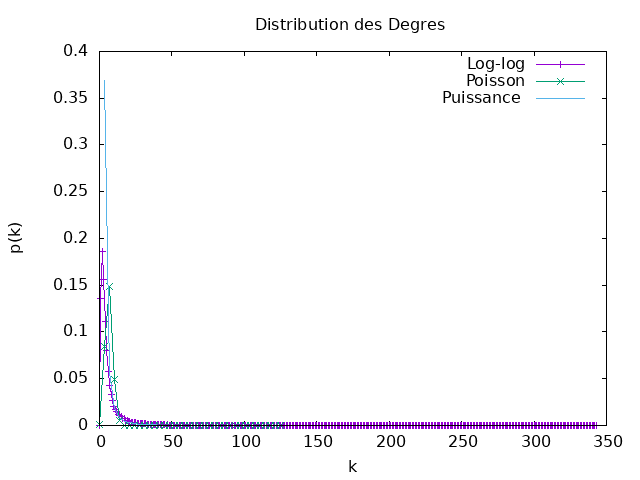
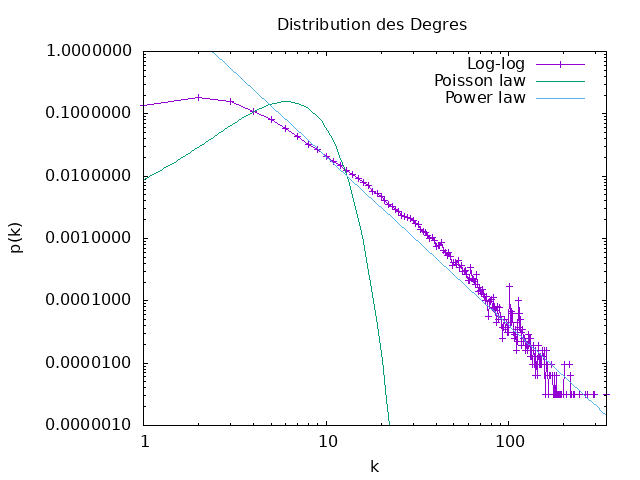
mesures_fin

diff --git a/src/main/java/Mesure/GraphClass.java b/src/main/java/Mesure/GraphClass.java
@@ -61,6 +61,28 @@ public class GraphClass {
 
     }
 
+    public static void distributionPoissonDegresToFile(Graph graph){
+
+        String filename = "Data/Mesures/"+graph.getId()+"_PoissonDeg.dat";
+
+        try (BufferedWriter writer = new BufferedWriter(new FileWriter(filename))) {
+            // Écrire les données
+            int[] data = Toolkit.degreeDistribution(graph);
+            int N = graph.getNodeCount();
+
+            for (int k = 0; k < data.length; k++) {
+                writer.write(k + "  " + (double)data[k]/(double)N + "\n");
+                k++;
+            }
+
+
+            // System.out.println("Data has been saved to " + filename);
+        } catch (IOException e) {
+            e.printStackTrace();
+            System.err.println("❌ Error saving data to " + filename);
+        }
+    }
+
     // * */ generer un fichier plt pour une simulation
     protected static void genererFichierPLT(String filepath, String fileSource, String graphName, String typeGraph) {
         try (BufferedWriter writer = new BufferedWriter(new FileWriter("Plot/"+filepath))) {
@@ -173,7 +195,6 @@ public class GraphClass {
 
         return distribution;
     }
-
 
 
 

diff --git a/src/main/java/Mesure/GivenGraph.java b/src/main/java/Mesure/GivenGraph.java
@@ -103,6 +103,7 @@ public class GivenGraph extends GraphClass {
 
 
 
+        distributionPoissonDegresToFile( graph);
 
 
 

diff --git a/README.md b/README.md
@@ -24,7 +24,12 @@ Le seuil critique pour qu'un réseau aléatoire devienne connexe est atteint lor
 
 Le tracé en échelle log-log de la distribution des degrés montre une courbe plutôt qu'une ligne droite.
 ![Distribution des degrés](GraphsImages/Mesures/Graph1_Mesures.png)
-Il ne s'agit pas d'une distribution de poisson ni de puissance.
+
+La distribution de nos degrés ne s'agit pas d'une distribution de poisson ni de puissance.
+
+Coefficients : 
+lc ≈ 2.34241 | 
+γ ≈ 2.70539
 
 ## Question 5
 
@@ -99,10 +104,10 @@ Les mesures de votre réseau collaboratif, du réseau aléatoire et du réseau B
 4. **Coefficient de Clustering ( C ) :**
     - Le réseau collaboratif a un coefficient de regroupement moyen significatif ( C  = 0.632 ), indiquant une certaine structure de regroupement. Le réseau aléatoire a un coefficient de regroupement négligeable, ce qui est attendu dans un réseau aléatoire. Le réseau Barabasi-Albert a également un faible coefficient de regroupement.
 
-5**Distance moyenne ( d ) :**
+5. **Distance moyenne ( d ) :**
     - La distance moyenne est cohérente avec les attentes théoriques. Le réseau aléatoire a une distance moyenne légèrement inférieure à celle du réseau collaboratif, ce qui est typique des réseaux aléatoires. Le réseau Barabasi-Albert a une distance moyenne légèrement plus élevée.
 
-6**Connexité :**
+6. **Connexité :**
     - Le réseau collaboratif et le réseau Barabasi-Albert sont connexes, tandis que le réseau aléatoire ne l'est pas. Cela correspond aux attentes théoriques.
 
 Globalement, les mesures semblent cohérentes avec les attentes théoriques, avec quelques différences qui peuvent être attribuées aux propriétés spécifiques.
